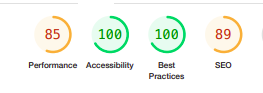
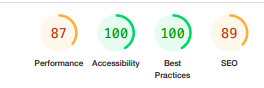
more performance images

diff --git a/volunteer_dashboard/templates/add_sessions.html b/volunteer_dashboard/templates/add_sessions.html
@@ -2,7 +2,7 @@
 {% load crispy_forms_tags %}
 
 {% block content %}
-<div class="centre_div text-white">
+<div class="centre_div">
             <h2 class="mt-3"> Session Form </h2>
             <form method="post" action="{% url 'add_sessions' %}" enctype="multipart/form-data" >
                 {{ form | crispy }}

diff --git a/volunteer_dashboard/templates/delete_sessions.html b/volunteer_dashboard/templates/delete_sessions.html
@@ -2,7 +2,7 @@
 {% load crispy_forms_tags %}
 
 {% block content %}
-<div class="centre_div text-white">
+<div class="centre_div">
             <h2 class="mt-3 delete_header"> Delete session: </h2>
             <a href="{% url 'dashboard' %}" class="return_button btn btn-danger">
                 X

diff --git a/volunteer_dashboard/templates/edit_sessions.html b/volunteer_dashboard/templates/edit_sessions.html
@@ -2,7 +2,7 @@
 {% load crispy_forms_tags %}
 
 {% block content %}
-<div class="centre_div text-white">
+<div class="centre_div">
     <h2 class="mt-3"> Edit session: </h2>
     <form method="post" style="margin-top: 1.3em">
         {% csrf_token %} 

diff --git a/static/css/style.css b/static/css/style.css
@@ -132,7 +132,7 @@ form a {
   min-height: 200px;
   min-width: 300px;
   margin-right: 5px;
-  background-color: cadetblue;
+  background-color: rgb(172, 220, 221);
 }
 
 h2 {

diff --git a/performance.md b/performance.md
@@ -8,3 +8,16 @@ Every page was checked with Chrome dev tool, Light house:
 
 ### Profile:
 ![profile](/readmeimages/profile_lighthouse.png)
+
+### Add Session:
+![add session](/readmeimages/addsession_lighthouse.png)
+
+### Edit Session:
+![edit session](/readmeimages/editsession_lighthouse.png)
+
+### Delete Session:
+![delete session](/readmeimages/deletesession_lighthouse.png)
+
+
+Takeaways:
+- Next iteration it would be important to improve performance scores and this would mainly involve improve image loading. 
